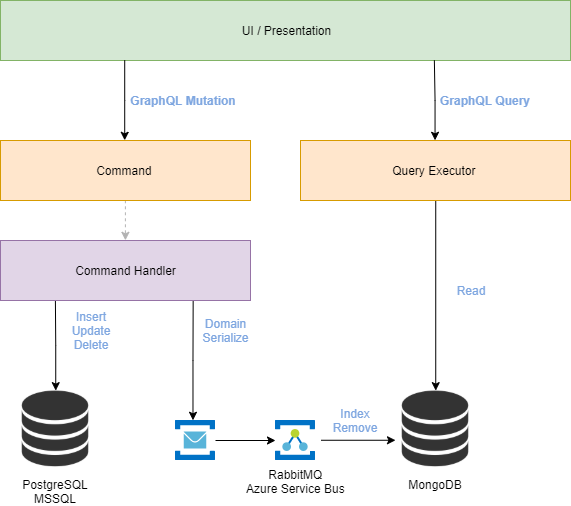
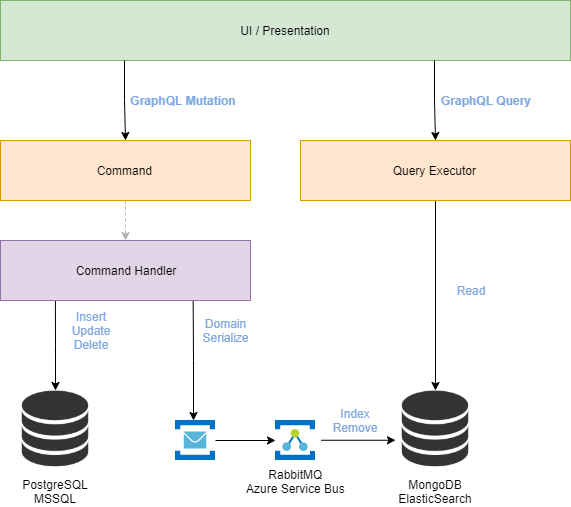
Updated architecture diagram and readme

diff --git a/README.md b/README.md
@@ -236,13 +236,13 @@ GraphAPI uses a number of open source projects and tools to work properly:
 * [RabbitMQ]() - Default
 * [Azure Service Bus]() - Optional
 * [MongoDB]() - Default
+* [ElasticSearch]() - Optional
 * [PostgreSQL]() - Default
 * [Microsoft SQL Server]() - Optional
 * [Docker]()
-
  
 ##### Soon
-* [ElasticSearch]() 
+ 
 * [Kubernetes]() 
 
 ### Installation
@@ -274,8 +274,8 @@ Start development on this project is simple, just open it on VSCode, Visual Stud
 ### Todos
 
  - [x] Add Codecoverage badge using Codecov
+ - [x] Implement Elastic Search Manager
  - [ ] Write MORE Tests to increase coverage
- - [ ] Implement Elastic Search Manager
  - [ ] Kubernetes Implementation
  - [ ] Add Notes on Tasks
 
